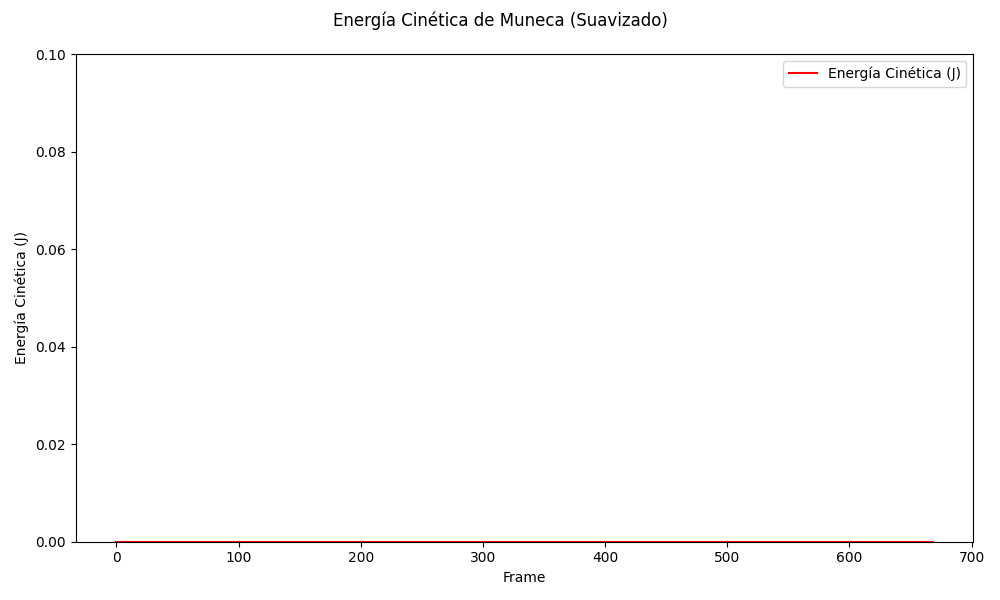
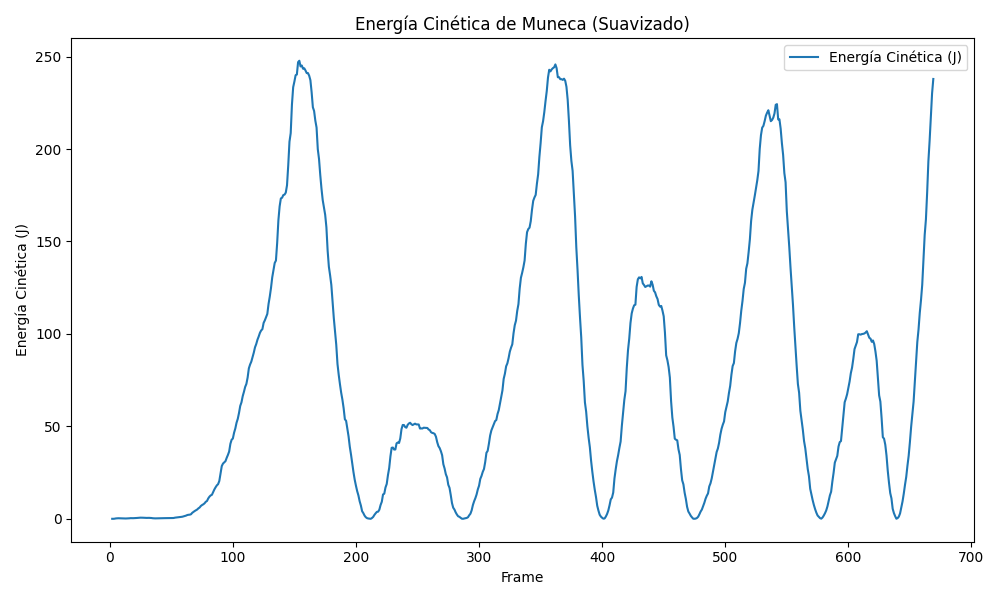
energia

diff --git a/main.py b/main.py
@@ -390,11 +390,10 @@ with mp_pose.Pose(
 
         # Calcular energías al final del bucle
         m_total = m_ant + m_manc  # Masa total (antebrazo + mancuerna)
-        h_ref = yc * factor if frame_id == 0 and factor is not None else yc * 0.001  # Altura de referencia (inicial)
-        h = (smoothed_y - h_ref) if frame_id > 0 and factor is not None else 0  # Altura relativa en metros
-        Ep = m_total * g * h if factor is not None else 0  # Energía potencial en julios
-        r_d = math.hypot(xm - xc, ym - yc) * factor if factor is not None else 0  # Distancia codo-muñeca en metros
-        I = (1/3) * m_ant * (r_d ** 2) + m_manc * (r_d ** 2) if factor is not None else 0  # Momento de inercia total
+        h_ref = 0.605 #ym * factor if frame_id == 546 and factor is not None else yc * 0.001  # Altura de referencia (inicial)
+        h = (h_ref - smoothed_y) if frame_id > 0 and factor is not None else 0  # Altura relativa en metros
+        Ep = m_total * g * h if factor is not None else 0  # Energía potencial en jules
+        I = ((1/3) * m_ant * (r_d ** 2) + (1/3) * m_manc * ((2* r_d) ** 2)) if factor is not None else 0  # Momento de inercia total
 
         # Almacenar datos para gráficos
         if 'energy_data' not in locals():
@@ -403,23 +402,27 @@ with mp_pose.Pose(
         energy_data['Ep'].append(Ep)
 
         # Actualizar energía cinética con theta (usamos el theta calculado antes)
-        if previous_theta is not None and frame_id > 1 and factor is not None:
-            omega = (theta - previous_theta) / dt  # Velocidad angular
+        """if previous_theta is not None and frame_id > 0 and factor is not None:
+            omega = theta / dt  # Velocidad angular
             Ek = 0.5 * I * (omega ** 2)  # Energía cinética en julios
             energy_data['Ek'].append(Ek)  # Agregamos Ek aquí
         else:
-            energy_data['Ek'].append(0)  # Si no hay theta previo, ponemos 0
+            energy_data['Ek'].append(0)  # Si no hay theta previo, ponemos 0"""
+        
+        previous_r_d = r_d
+        
+        if previous_r_d is not None and previous_theta is not None and factor is not None:
+            # velocidad radial ṙ
+            r_dot = (r_d - previous_r_d) / dt
+            # velocidad angular θ̇
+            omega = (theta ) / dt
+            # Ek según la nueva fórmula
+            Ek = 0.5 * m_total * (r_dot**2 + (r_d * omega)**2)
+            print(f"Frame {frame_id}: r={r_d:.4f} m, ṙ={r_dot:.4f} m/s, θ̇={omega:.4f} rad/s, Ek={Ek:.4f} J")
+        else:
+            Ek = 0.0
+            print(f"Frame {frame_id}: sin previos, ṙ/θ̇→Ek=0")
 
-        # Actualizar energía cinética con theta (usamos el theta calculado antes)
-        if previous_theta is not None and frame_id > 1 and factor is not None:
-            dtheta = theta - previous_theta
-            omega = dtheta / dt  # Velocidad angular
-            Ek = 0.5 * I * (omega ** 2)  # Energía cinética en julios
-            energy_data['Ek'].append(Ek)  # Agregamos Ek aquí
-            print(f"Frame {frame_id}: theta={theta:.4f}, previous_theta={previous_theta:.4f}, dtheta={dtheta:.4f}, omega={omega:.4f}, I={I:.4f}, Ek={Ek:.4f}")
-        else:
-            energy_data['Ek'].append(0)  # Si no hay theta previo, ponemos 0
-            print(f"Frame {frame_id}: No hay theta previo, Ek=0")
 
 print(f"Trabajo total hecho por el bíceps: {work_mus:.2f} J")
 
@@ -676,16 +679,18 @@ if factor is not None:
 
             # Gráfico de Energía Cinética (suavizado)
             for punto in ['muneca']:  # Solo muneca para simplificar, podés agregar otros
-                fig_ek, ax_ek = plt.subplots(figsize=(10, 6))
+                """fig_ek, ax_ek = plt.subplots(figsize=(10, 6))
                 fig_ek.suptitle(f'Energía Cinética de {punto.capitalize()} (Suavizado)')
                 ek_values = [energy_data['Ek'][i] for i in range(len(df_unificado)) if i < len(energy_data['Ek'])]
-                ax_ek.plot(df_unificado['frame'], ek_values, label='Energía Cinética (J)', color='red')
+                ax_ek.plot(df_unificado['frame'], ek_values, label='Energía Cinética (J)', color='red')"""
+                frames_ek = energy_data['frame'][1:]
+                ek_values = energy_data['Ek'][1:]
+                fig_ek, ax_ek = plt.subplots(figsize=(10, 6))
+                ax_ek.set_title('Energía Cinética de Muneca (Suavizado)')
+                ax_ek.plot(frames_ek, ek_values, label='Energía Cinética (J)')
                 ax_ek.set_xlabel('Frame')
                 ax_ek.set_ylabel('Energía Cinética (J)')
                 ax_ek.legend()
-                # Forzar un rango inicial si los valores son muy pequeños
-                if max(ek_values) < 0.1 and min(ek_values) >= 0:
-                    ax_ek.set_ylim(0, 0.1)  # Ajuste manual si los valores son cercanos a cero
                 plt.tight_layout()
                 ruta_grafico_ek = os.path.join(carpeta_datos, f'movimiento_{punto}_energia_cinetica_suavizado.png')
                 plt.savefig(ruta_grafico_ek)
